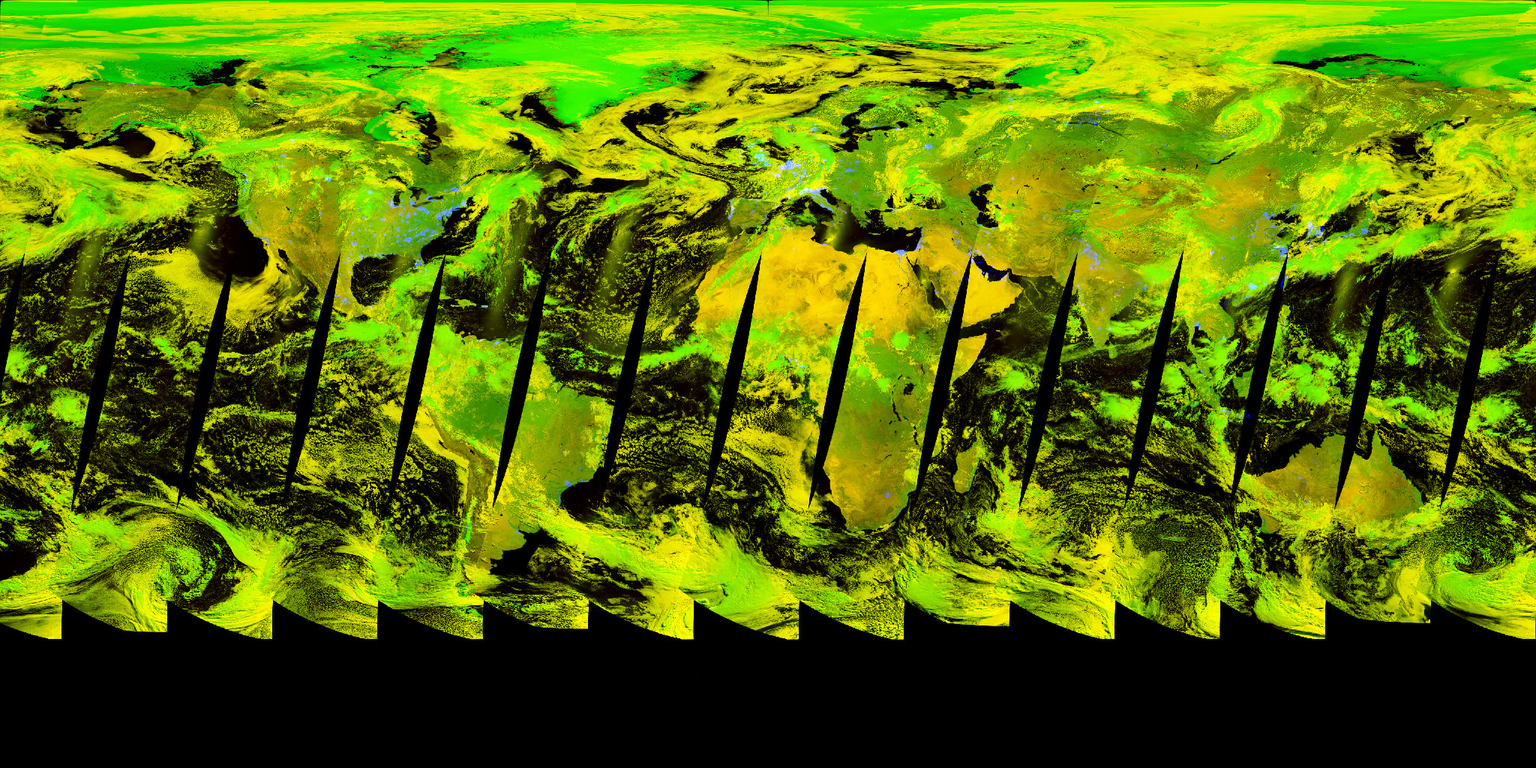
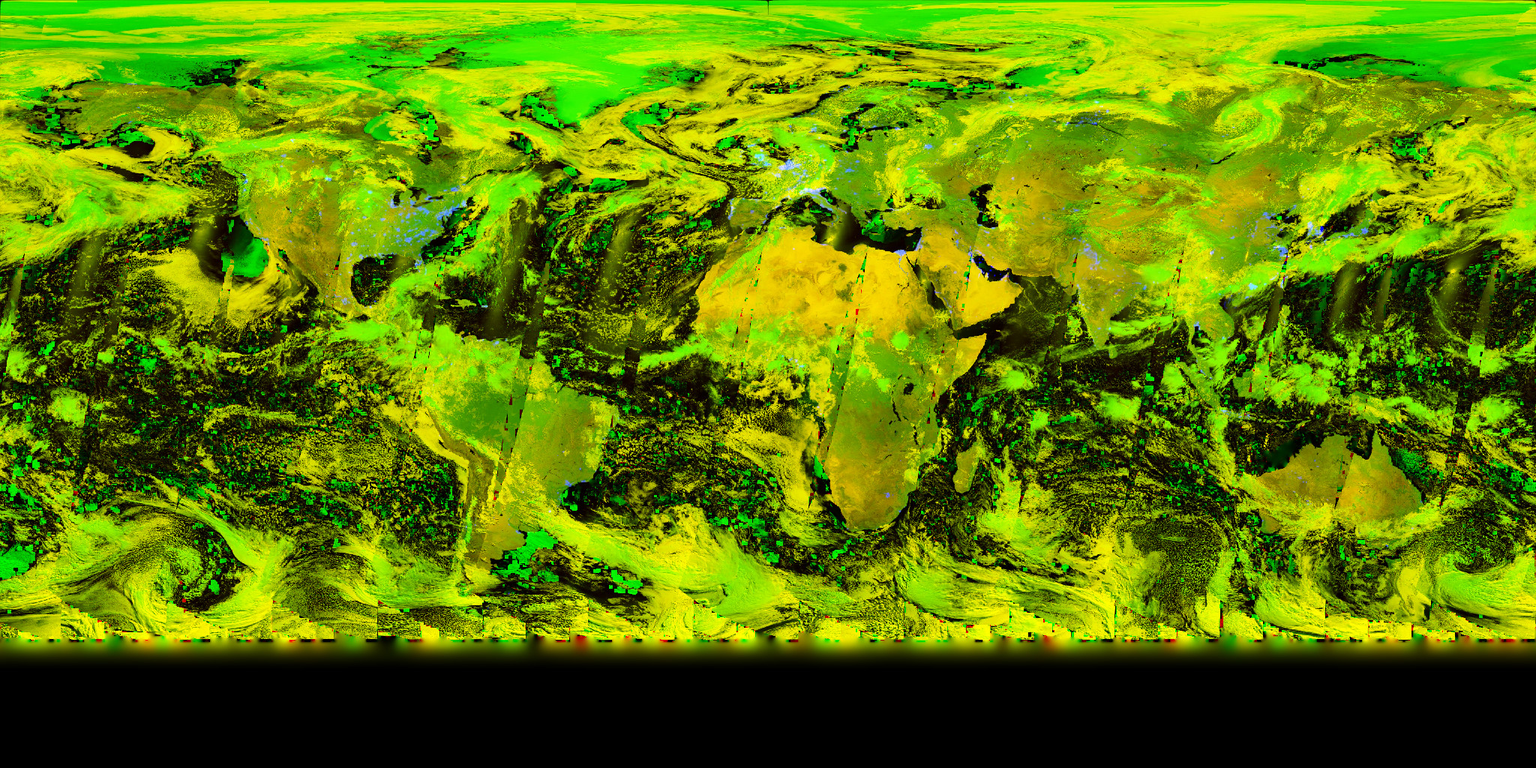
Earth: fill orbit gaps from neighbouring days, inpaint the rest
Each daily layer fills its gaps from the nearest of 12-18 June (swath
edges shaved first), keeps the polar night black in reflected bands and
inpaints what remains. Fix palette decoding of open-ended classes, which
dropped clean air from the UV aerosol index. The Cloud's Earth globe now
uses MODIS's own visible bands instead of Blue Marble; Earth and Sun
bands count fully for the spectrum slot they fall in, and night lights
no longer share a channel with daylight bands.

Claude-Session: https://claude.ai/code/session_017smdztJiJBTh8MuH9CDnY6

diff --git a/tools/sky-spectrum.html b/tools/sky-spectrum.html
@@ -170,7 +170,7 @@
     sun: { dir: "sun-spectrum", title: "Sun Spectrum", views: ["Disc"], wrap: false,
       foot: "18 December 2015, 02:44 UTC · Nobeyama 17 GHz, ALMA 1.25 mm, SDO HMI and AIA · solar north up. Scroll or pinch to zoom, drag to pan." },
     earth: { dir: "earth-spectrum", title: "Earth Spectrum", views: ["Globe", "Map"], wrap: true, lonSign: 1,
-      foot: "15 June 2024 · MODIS Terra, GPM GMI, OMI; city lights from 2012. One day of polar orbits: black wedges are gaps between passes, the far south is in polar night." },
+      foot: "15 June 2024 · MODIS Terra, GPM GMI, OMI; city lights from 2012. Gaps between orbits are filled from 12–18 June, anything still missing is smoothed in from around it (GMI stops at ±68° latitude); the far south is in polar night." },
   };
   // fallback region rules for the sky's bands.json, which predates "region"
   const SKY_REGIONS = [
@@ -263,17 +263,21 @@
         const m = b.wave.replace(/~/g, "").match(/([\d.]+)(?:\s*–\s*([\d.]+))?\s*(fm|nm|µm|mm|cm|m)\b/);
         return [+m[1] * UNIT_M[m[3]], +(m[2] ?? m[1]) * UNIT_M[m[3]]];
       })();
-      return [barPos(Math.max(x, y)), barPos(Math.min(x, y))];
+      // and, like the sky's own bands, fully the slot it falls in
+      const a = barPos(Math.max(x, y)), b = barPos(Math.min(x, y)), slot = Math.round((a + b) / 2);
+      return [Math.min(a, slot - 0.3), Math.max(b, slot + 0.3)];
     }
     // selector weights for those bands: the channel's response at the nearest
     // point of each band's span, a little narrower than the sky's so that
     // neighbouring bands don't bleed in; where several crowd under one
-    // channel they share it
-    function objWeights(spans, p) {
-      const so = 0.6 * sigma();
+    // channel they share it — within their group: bands that never show at
+    // the same time (Earth's night lights and its daylight bands) don't share
+    function objWeights(spans, p, groups = []) {
+      const so = 0.45 * sigma();
       const g = spans.map(([a, b]) => { const d = p < a ? a - p : p > b ? p - b : 0; return Math.exp(-(d * d) / (2 * so * so)); });
-      const sum = g.reduce((a, b) => a + b, 0);
-      return g.map((x) => (sum > 1 ? x / sum : x));
+      const sum = {}; // only bands well inside the channel crowd it; faint tails just add
+      g.forEach((x, i) => (sum[groups[i] ?? 0] = (sum[groups[i] ?? 0] ?? 0) + (x > 0.5 ? x : 0)));
+      return g.map((x, i) => { const t = sum[groups[i] ?? 0]; return t > 1 ? x / t : x; });
     }
     const sel = document.getElementById("selector"), curves = document.getElementById("curves");
     const slotW = () => slots.getBoundingClientRect().width / N;
@@ -520,9 +524,9 @@
     // spectrum bar at its own wavelength (interpolated in log wavelength between
     // the sky's bands) and takes the selector's weight there.
     //   Earth (unit below Earth's radius): a ray-cast globe from the Earth
-    //   target's bands, with NASA Blue Marble for red, green and blue (no orbit
-    //   gaps); axis to the celestial pole, turned and sunlit for the moment the
-    //   page opened: reflected bands go dark at night, city lights only show there.
+    //   target's bands; axis to the celestial pole, turned and sunlit for the
+    //   moment the page opened: reflected bands go dark at night, city lights
+    //   only show there.
     //   Sun (unit between Earth's and the Sun's radius): the Sun target's
     //   images as a flat disc facing the camera, solar north up.
     const OBJ_MAX = 12;
@@ -560,7 +564,6 @@
       uniform vec3 sunEq;
       uniform float rE, spinA, gmst, elod;
       uniform int lit[${OBJ_MAX}];  // 0 emitted, 1 reflected sunlight, 2 night only
-      uniform sampler2D marble;
       void main() {
         vec3 ro, rd = ray(ro);
         float bq = dot(ro, rd), h = bq * bq - dot(ro, ro) + rE * rE;
@@ -575,8 +578,6 @@
         vec2 uv = vec2(fract(lon / 6.2831853 + 0.5), 0.5 - lat / 3.1415927);
         float vals[${OBJ_MAX}], shade[${OBJ_MAX}];
         objBands(uv, elod, vals);
-        vec3 bm = textureLod(marble, uv, elod).rgb;
-        vals[6] = bm.r; vals[7] = bm.g; vals[8] = bm.b;                // Blue Marble for the visible bands
         float day = smoothstep(-0.1, 0.15, dot(v, sunEq));
         for (int k = 0; k < ${OBJ_MAX}; k++) shade[k] = lit[k] == 1 ? mix(0.06, 1.0, day) : lit[k] == 2 ? 1.0 - day : 1.0;
         o = vec4(mixBands(vals, shade), 1.0);
@@ -646,7 +647,6 @@
       hasDepth ? loadTex(`./${T.dir}/${meta.depth}`, P, false) : Promise.resolve(),
       hasDepth && meta.sourceDepth ? loadTex(`./${T.dir}/${meta.sourceDepth}`, P + 1, false, true) : Promise.resolve(),
       hasDepth && meta.radioDepth ? loadTex(`./${T.dir}/${meta.radioDepth}`, P + 2, false, true) : Promise.resolve(),
-      hasDepth ? loadTex("./earth-spectrum/globe.jpg", P + 3, true) : Promise.resolve(),
       ...(hasDepth ? OBJ.flatMap((ob, oi) => ob.meta.packs.map((f, i) => loadTex(`./${ob.dir}/${f}`, P + 4 + 4 * oi + i, true))) : []),
     ]);
     if (session.signal.aborted) return;
@@ -664,7 +664,6 @@
       if (!p) return;
       gl.useProgram(p);
       for (let i = 0; i < 4; i++) gl.uniform1i(gl.getUniformLocation(p, `o${i}`), P + 4 + 4 * oi + i);
-      if (p === earthGlobe) gl.uniform1i(gl.getUniformLocation(p, "marble"), P + 3);
     });
     status.textContent = `${N} bands`;
 
@@ -918,10 +917,12 @@
           gl.useProgram(p);
           const E = (n) => gl.getUniformLocation(p, n);
           const pos = ob.spans ??= ob.meta.bands.map(barSpan);
+          const LIT = { gmi: 0, t11: 0, lights: 2 }, lit = ob.meta.bands.map((b) => (centre === 0 ? LIT[b.id] ?? 1 : 0));
+          const groups = lit.map((l) => (l === 2 ? 1 : 0));
           const pad = (x) => { const a = new Float32Array(OBJ_MAX); a.set(x); return a; };
-          gl.uniform1fv(E("oR"), pad(objWeights(pos, c - s)));
-          gl.uniform1fv(E("oG"), pad(objWeights(pos, c)));
-          gl.uniform1fv(E("oB"), pad(objWeights(pos, c + s)));
+          gl.uniform1fv(E("oR"), pad(objWeights(pos, c - s, groups)));
+          gl.uniform1fv(E("oG"), pad(objWeights(pos, c, groups)));
+          gl.uniform1fv(E("oB"), pad(objWeights(pos, c + s, groups)));
           gl.uniform1f(E("gain"), +exposure.value); gl.uniform1f(E("gam"), +contrast.value);
           gl.uniformMatrix4fv(E("viewProj"), false, VP);
           gl.uniform2f(E("res"), w, h);
@@ -932,8 +933,7 @@
             gl.uniform3fv(E("sunEq"), SKY_NOW.sun);
             gl.uniform1f(E("rE"), rO); gl.uniform1f(E("spinA"), spinA); gl.uniform1f(E("gmst"), SKY_NOW.gmst);
             gl.uniform1f(E("elod"), Math.max(0, Math.log2(2048 / Math.max(1, 3 * px))));
-            const LIT = { gmi: 0, t11: 0, lights: 2 };
-            gl.uniform1iv(E("lit"), Int32Array.from({ length: OBJ_MAX }, (_, k) => ob.meta.bands[k] ? LIT[ob.meta.bands[k].id] ?? 1 : 0));
+            gl.uniform1iv(E("lit"), Int32Array.from({ length: OBJ_MAX }, (_, k) => lit[k] ?? 0));
           } else {
             gl.uniform3fv(E("camR"), CAM.r); gl.uniform3fv(E("camU"), CAM.u); gl.uniform3fv(E("camF"), CAM.f);
             gl.uniform1f(E("rS"), rO);
